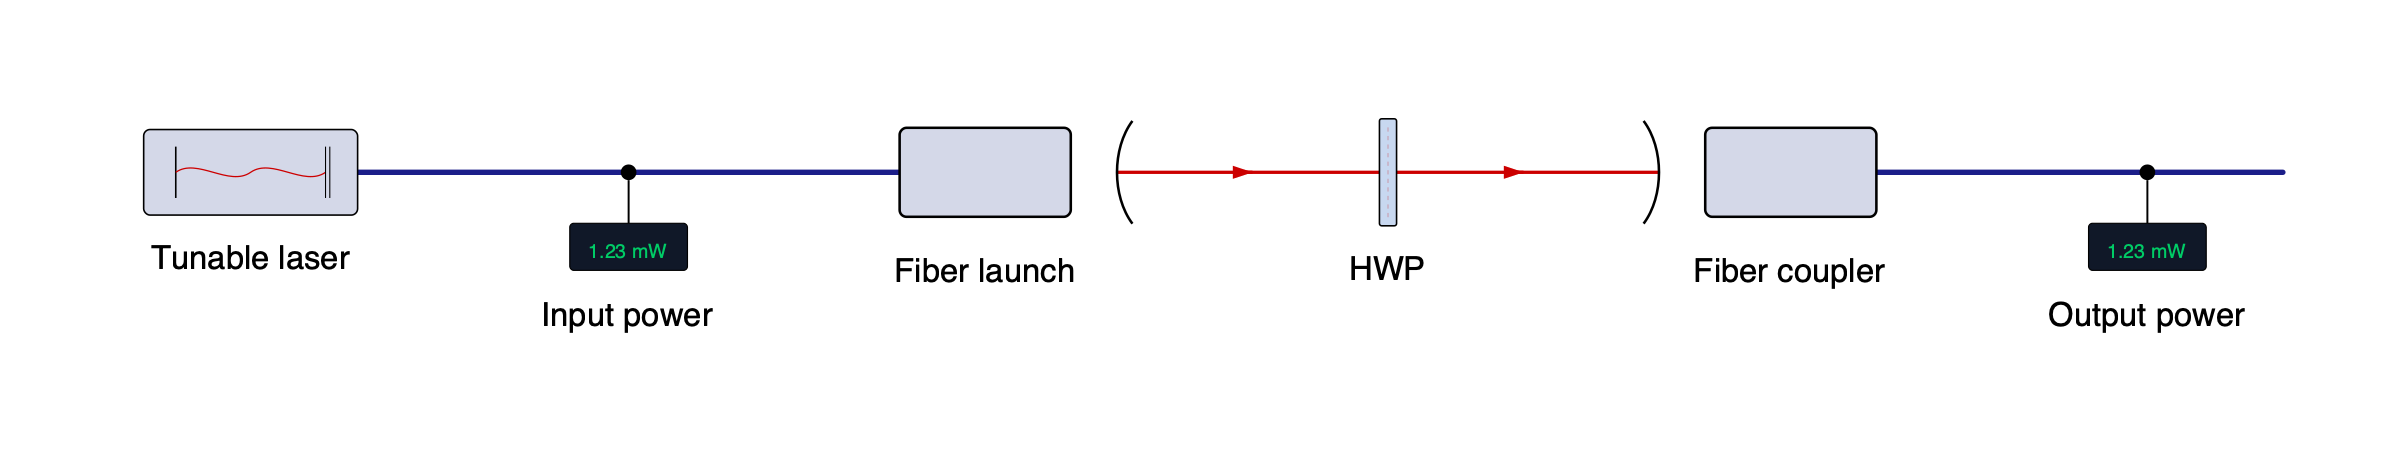
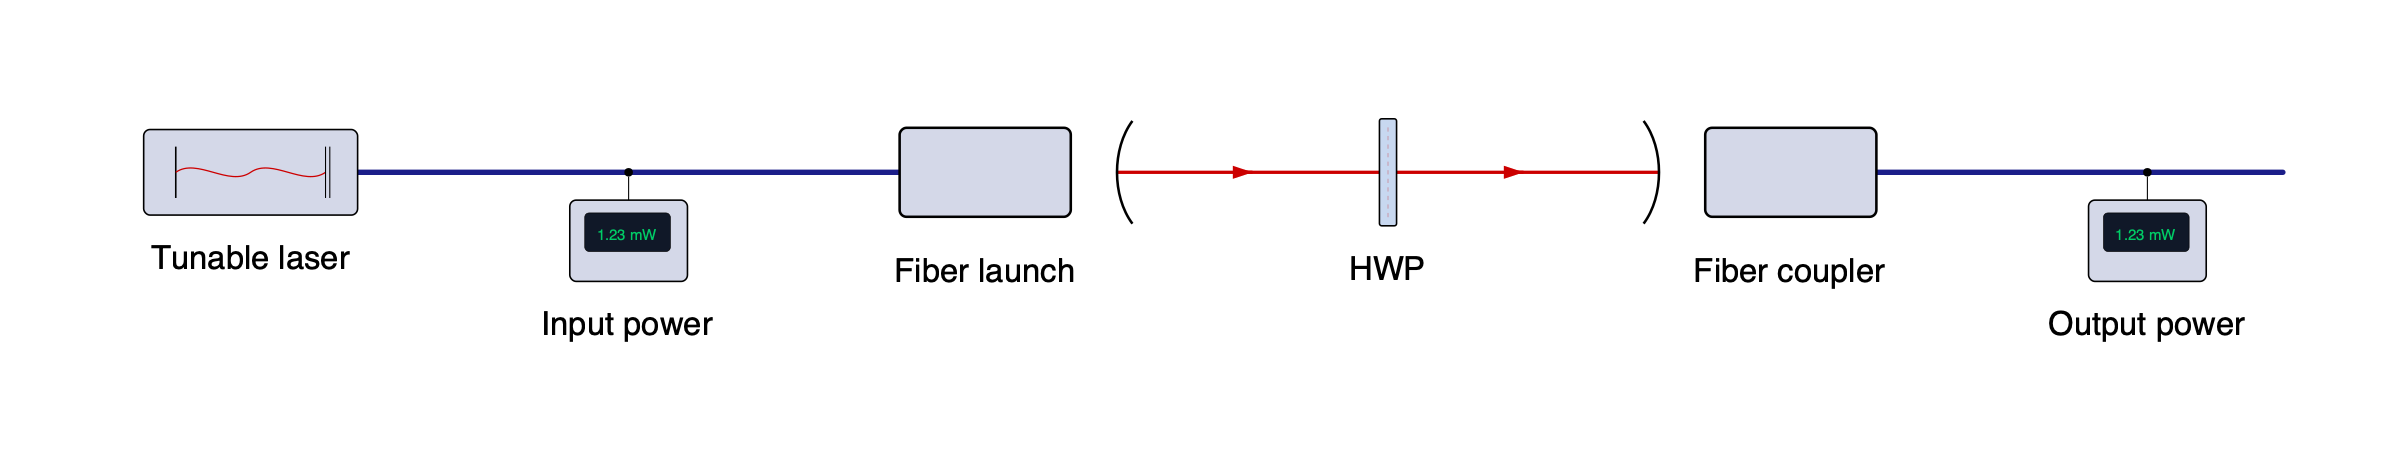
Match power tap housing to the standalone power meter

diff --git a/src/beampath/components.py b/src/beampath/components.py
@@ -188,8 +188,9 @@ register_component(ComponentDefinition(
 register_component(ComponentDefinition(
     "inline_power_meter", "Inline power meter",
     _art("f-inline-power-meter.svg", "fiber-optics/flat_2d/svg/11_inline_components",
-         (85, 27), (69, 25, 101, 53), 2.75,  # Match the standalone meter housing width.
-         adaptations="Inline power-meter display changed to 1.23 mW and kept aligned with its housing. "
+         (85, 27), (56.5, 25, 113.5, 79), 1.5,
+         adaptations="Housing and display match the standalone f-power-meter.svg at the same scale. "
+                     "Inline power-meter display changed to 1.23 mW and kept aligned with its housing. "
                      "Embedded fiber line removed; both fiber ports attach at the tap."),
     _fiber_meter))
 register_component(ComponentDefinition(
